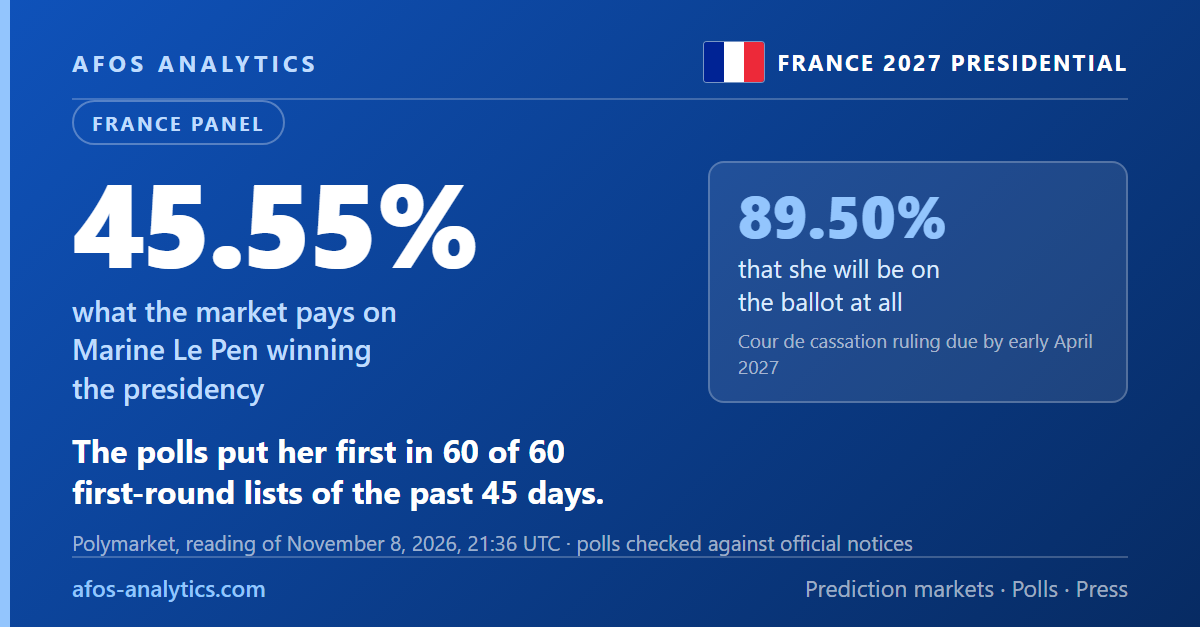
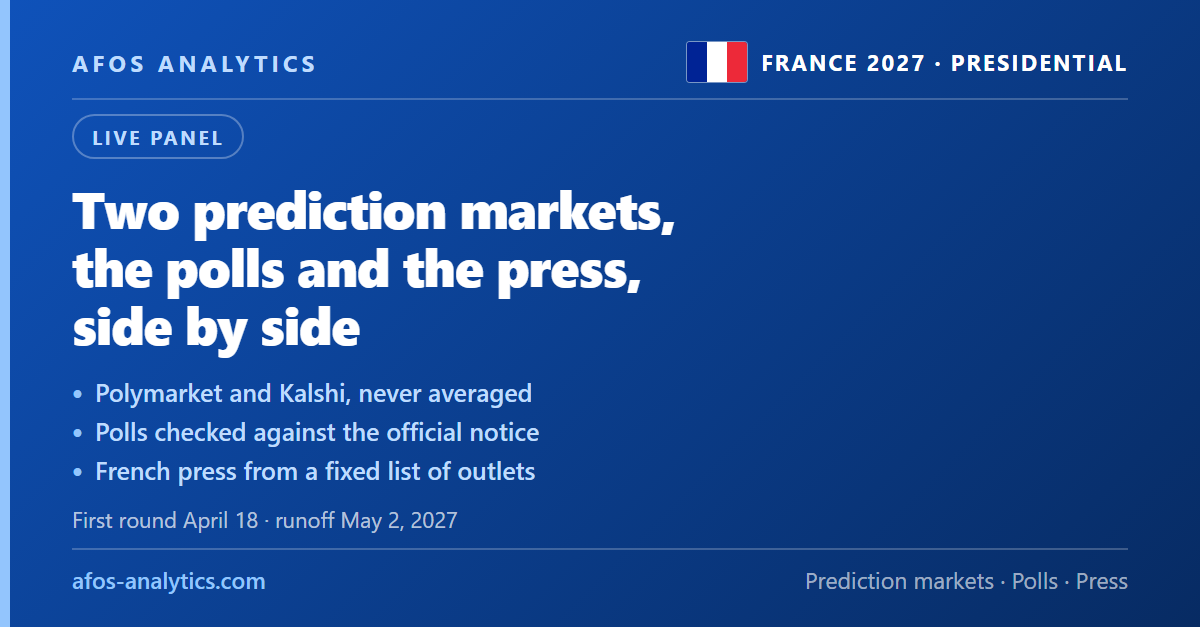
marca(fra): cartão social do painel permanente e sem número, nos 3 idiomas
O link do painel circula por semanas e as redes guardam a imagem do primeiro
compartilhamento; número no cartão envelheceria sem conserto. Número fica nos
cartões das edições. /atualizar-fra deixa de regerar o cartão.

diff --git a/.claude/commands/atualizar-fra.md b/.claude/commands/atualizar-fra.md
@@ -1,6 +1,6 @@
 # AFOS Analytics — Atualização Completa (FRANÇA 2027)
 
-Atualiza o **painel da França** (`/[idioma]/dashboard/fr`): confere o mercado nos dois livros, confere as coletas automáticas de pesquisa e de imprensa, reescreve o texto do painel nos 3 idiomas, regera o cartão social e publica.
+Atualiza o **painel da França** (`/[idioma]/dashboard/fr`): confere o mercado nos dois livros, confere as coletas automáticas de pesquisa e de imprensa, reescreve o texto do painel nos 3 idiomas, e publica.
 
 Criado em 08/Nov/2026. Molde: `/atualizar-brz` (painel com texto) e `/atualizar-usa` (trava, imprensa). Onde este arquivo não fala, valem as regras daqueles dois.
 
@@ -50,13 +50,9 @@ Arquivos: `public/fr/analise.pt-BR.json` (ORIGEM, como no painel do Brasil), `.e
 
 Quando a seção de perfis existir, os textos dela também moram em JSON nos 3 idiomas e seguem as regras da ETAPA 3. São os **8 candidatos com mais de 5 pontos no mercado ou na média das pesquisas** (decisão do André, 08/Nov/2026). Candidato que cair abaixo dos dois limites sai na rodada seguinte; quem passar entra.
 
-## ETAPA 5: Cartão social
+## ETAPA 5: Cartão social (NÃO se regera)
 
-```bash
-node scripts/build-og-card-fr-panel.mjs
-```
-
-Lê preço e pesquisas na hora e carimba dia e hora. **Falha se a leitura de mercado vier degradada.** Gera os 3 cartões da MESMA leitura (`public/brand/og-fr-panel-{en,pt,es}-1200x627.png`), um por idioma, cada um ligado à sua versão da página. Conferir as três imagens antes de publicar.
+Desde 08/Nov/2026 (decisão do André) o cartão do painel é **permanente e sem número**: descreve o que o painel mede, nos 3 idiomas (`public/brand/og-fr-panel-{en,pt,es}-1200x627.png`). O link do painel circula por semanas e WhatsApp, LinkedIn e X guardam a imagem do primeiro compartilhamento, então número no cartão envelheceria sem conserto. **Esta rodada não mexe no cartão.** Regerar (`node scripts/build-og-card-fr-panel.mjs`) só quando o TEXTO do cartão mudar. Número em cartão é das edições (Weekly, Tradeoff), que têm endereço próprio.
 
 ## ETAPA 6: Conferir, publicar, conferir de novo
 
